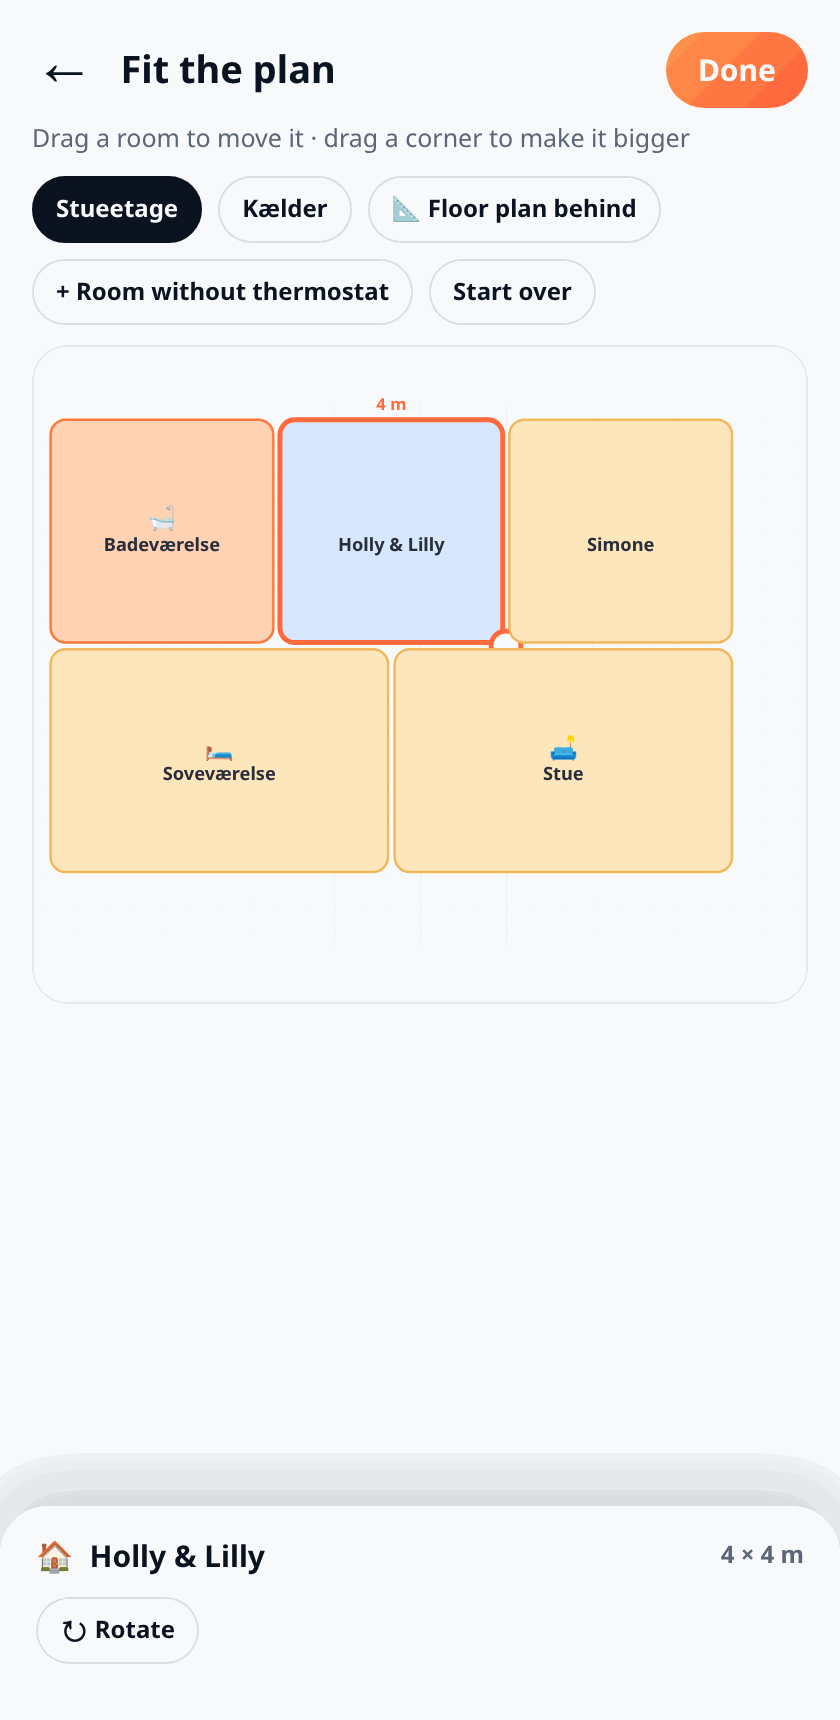
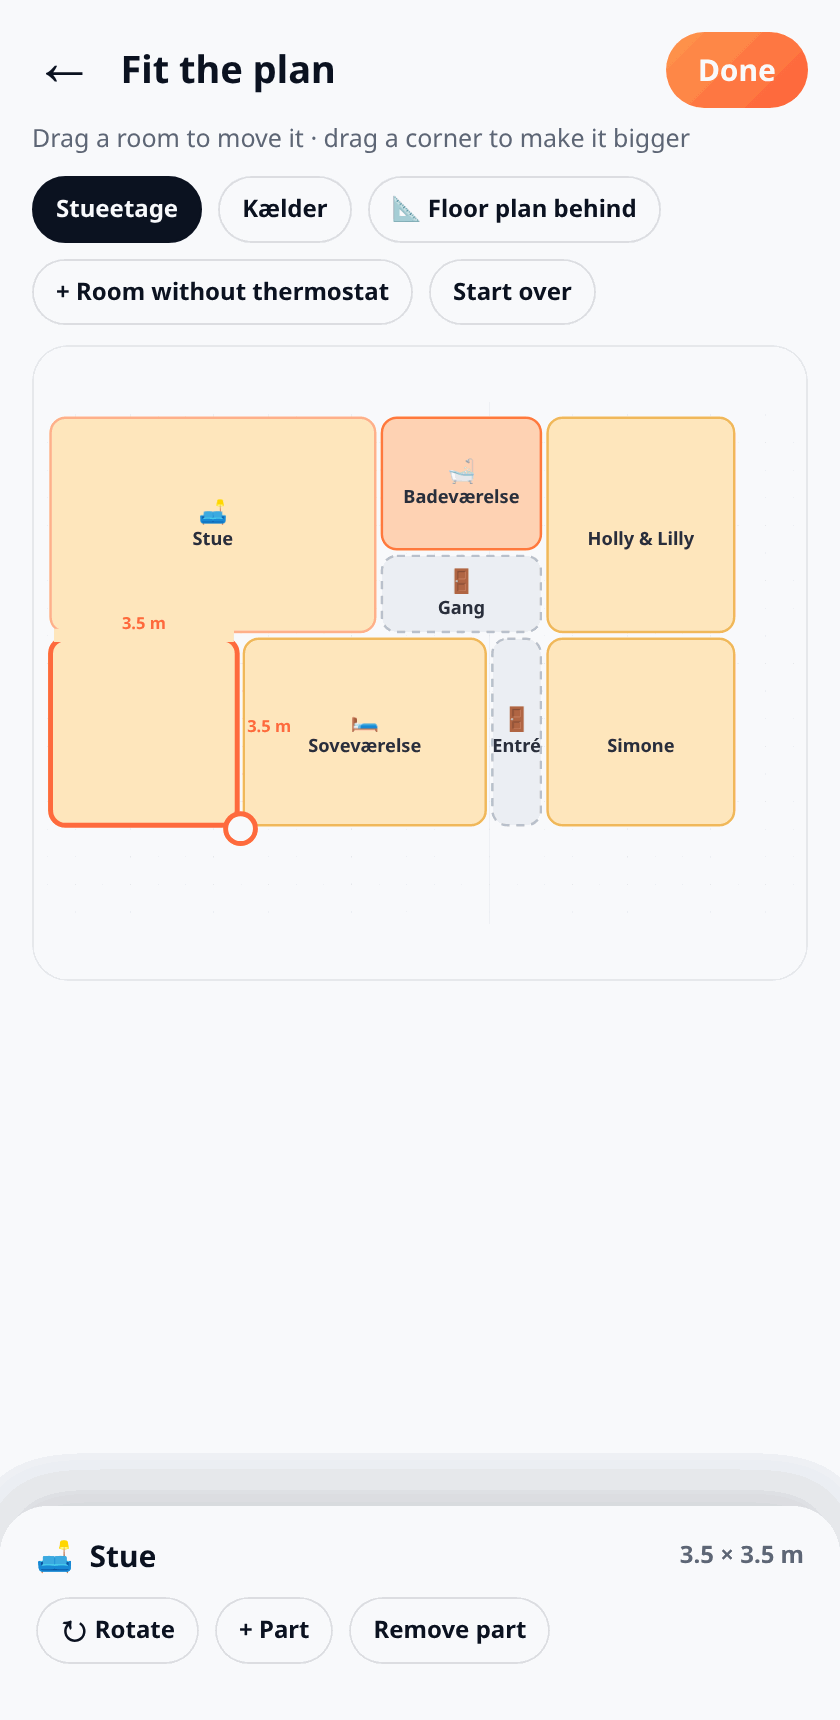
README: new pictures (garden, L-shaped room, Fit the plan with parts)

diff --git a/README.md b/README.md
@@ -28,8 +28,8 @@ district heating meter by itself, learns how your home is used, and shows what i
 - **Warnings**: mould risk, stale air, windows left open, thermostats not responding, low batteries, rooms that
   don't get warm – in the app, and as phone messages only if you want (each kind can be turned off).
 - **Turned by hand** is respected, with an echo guard for Zigbee thermostats.
-- **The house in 3D**: rooms with walls, windows and wood floors – a warm glow where it heats, a cool blue where it's lowered – floor by floor, with the real weather, night and day, the seasons and the holidays (snow on the walls, Christmas lights and a tree, fireworks, Easter eggs, a pumpkin …).
-- **Fit the plan**: drag the rooms to where they are in your home and resize them (25 cm steps, sizes in metres), add rooms without a thermostat such as the hall, and put a picture of your own floor plan faintly behind to trace it. Rooms as thermostat dials, a 48-hour chart per room, a 24-hour plan, a dashboard card and a monthly report.
+- **The house in 3D**: rooms with walls, windows and wood floors – a warm glow where it heats, a cool blue where it's lowered – in a garden with a lawn, bushes and a tree that follow the season, with soft shadows. Floor by floor, with the real weather, night and day and the holidays (snow on the walls, Christmas lights and a tree, fireworks, Easter eggs, a pumpkin …).
+- **Fit the plan**: drag the rooms to where they are in your home and resize them (25 cm steps, sizes in metres), make L-shaped rooms with "+ Part" (the part snaps to the room, no wall inside), add rooms without a thermostat such as the hall, and put a picture of your own floor plan faintly behind to trace it. Rooms as thermostat dials, a 48-hour chart per room, a 24-hour plan, a dashboard card and a monthly report.
 - **7 languages** (English, Danish, German, French, Dutch, Swedish, Norwegian), **°C and °F**.
 
 ## Thermostats
@@ -71,4 +71,4 @@ Then open `http://<host>:8099`. (Add `-v /path/to/ha/config:/homeassistant` to h
 ---
 
 **Dansk:** Varme i hvert rum – finder selv rum, termostater, følere, vinduer, personer, ventilation og fjernvarme,
-lærer hvordan huset bruges, og starter altid i skygge. Styring slås til rum for rum. Huset vises i 3D med vægge, vinduer og trægulv, og med **Tilpas plan** flytter du rummene, så de passer til din egen plantegning.
+lærer hvordan huset bruges, og starter altid i skygge. Styring slås til rum for rum. Huset vises i 3D med vægge, vinduer, trægulv og en have, der følger årstiden, og med **Tilpas plan** flytter du rummene, så de passer til din egen plantegning – også L-formede rum.
